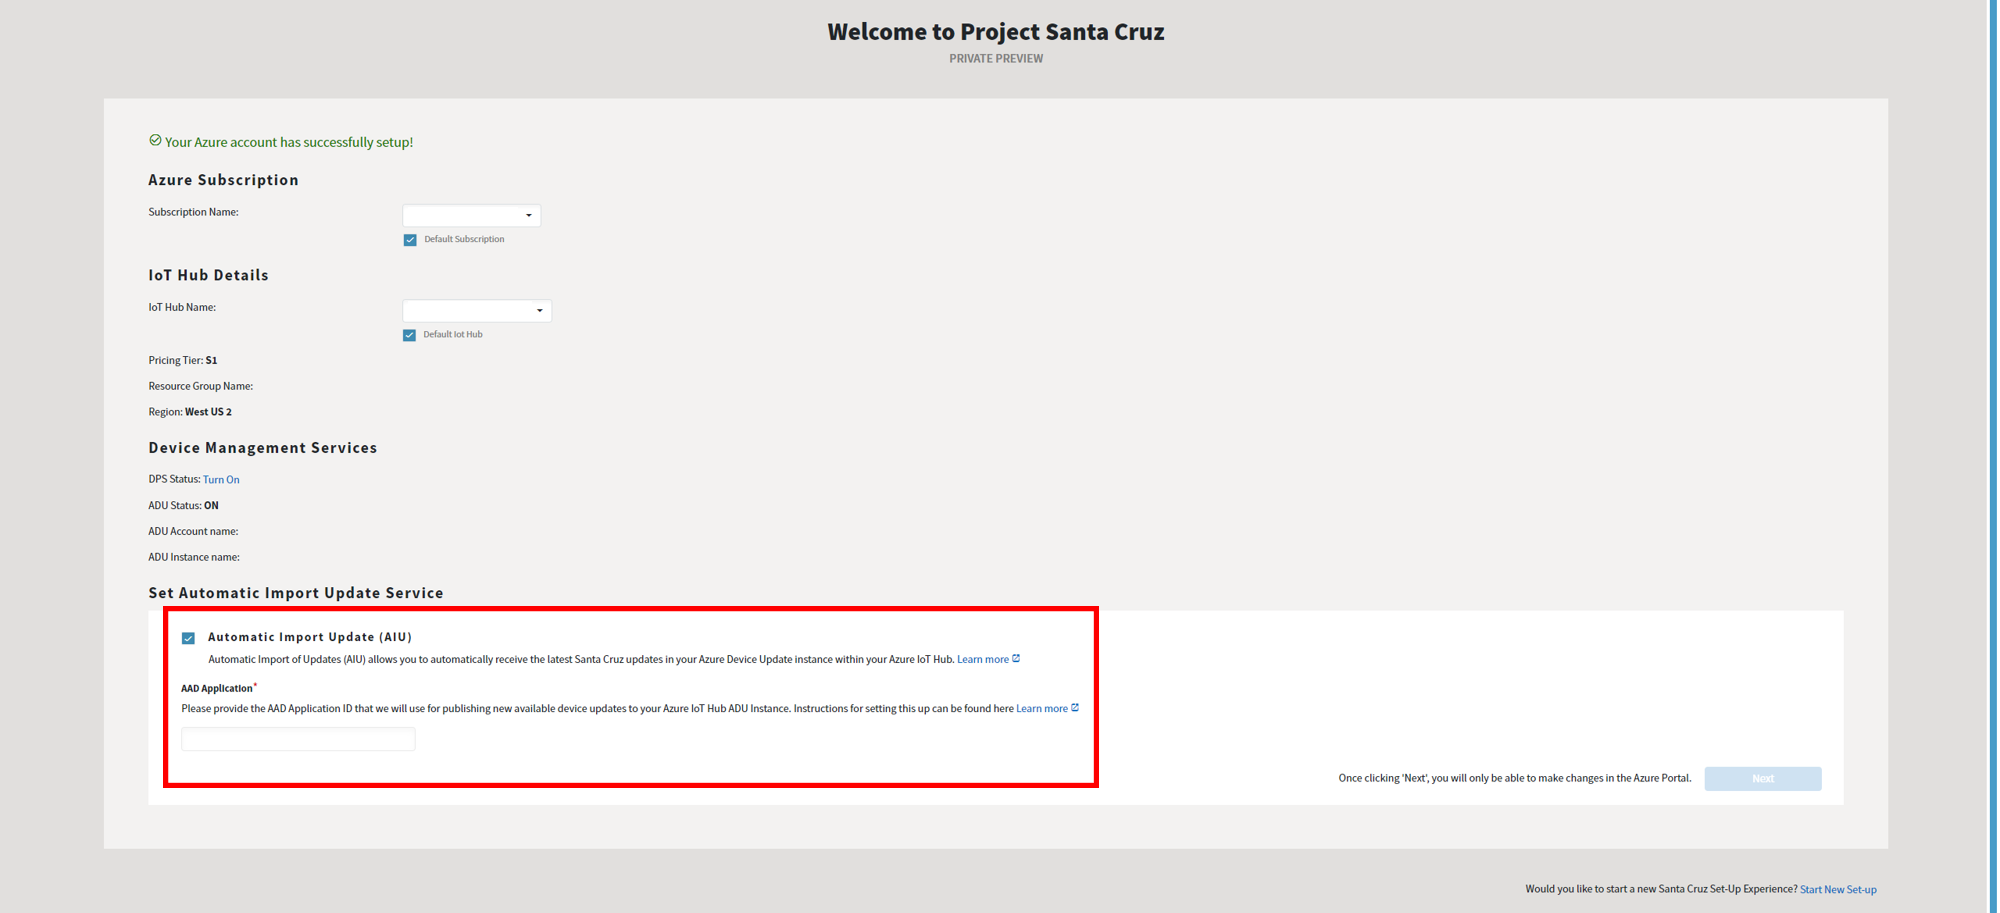
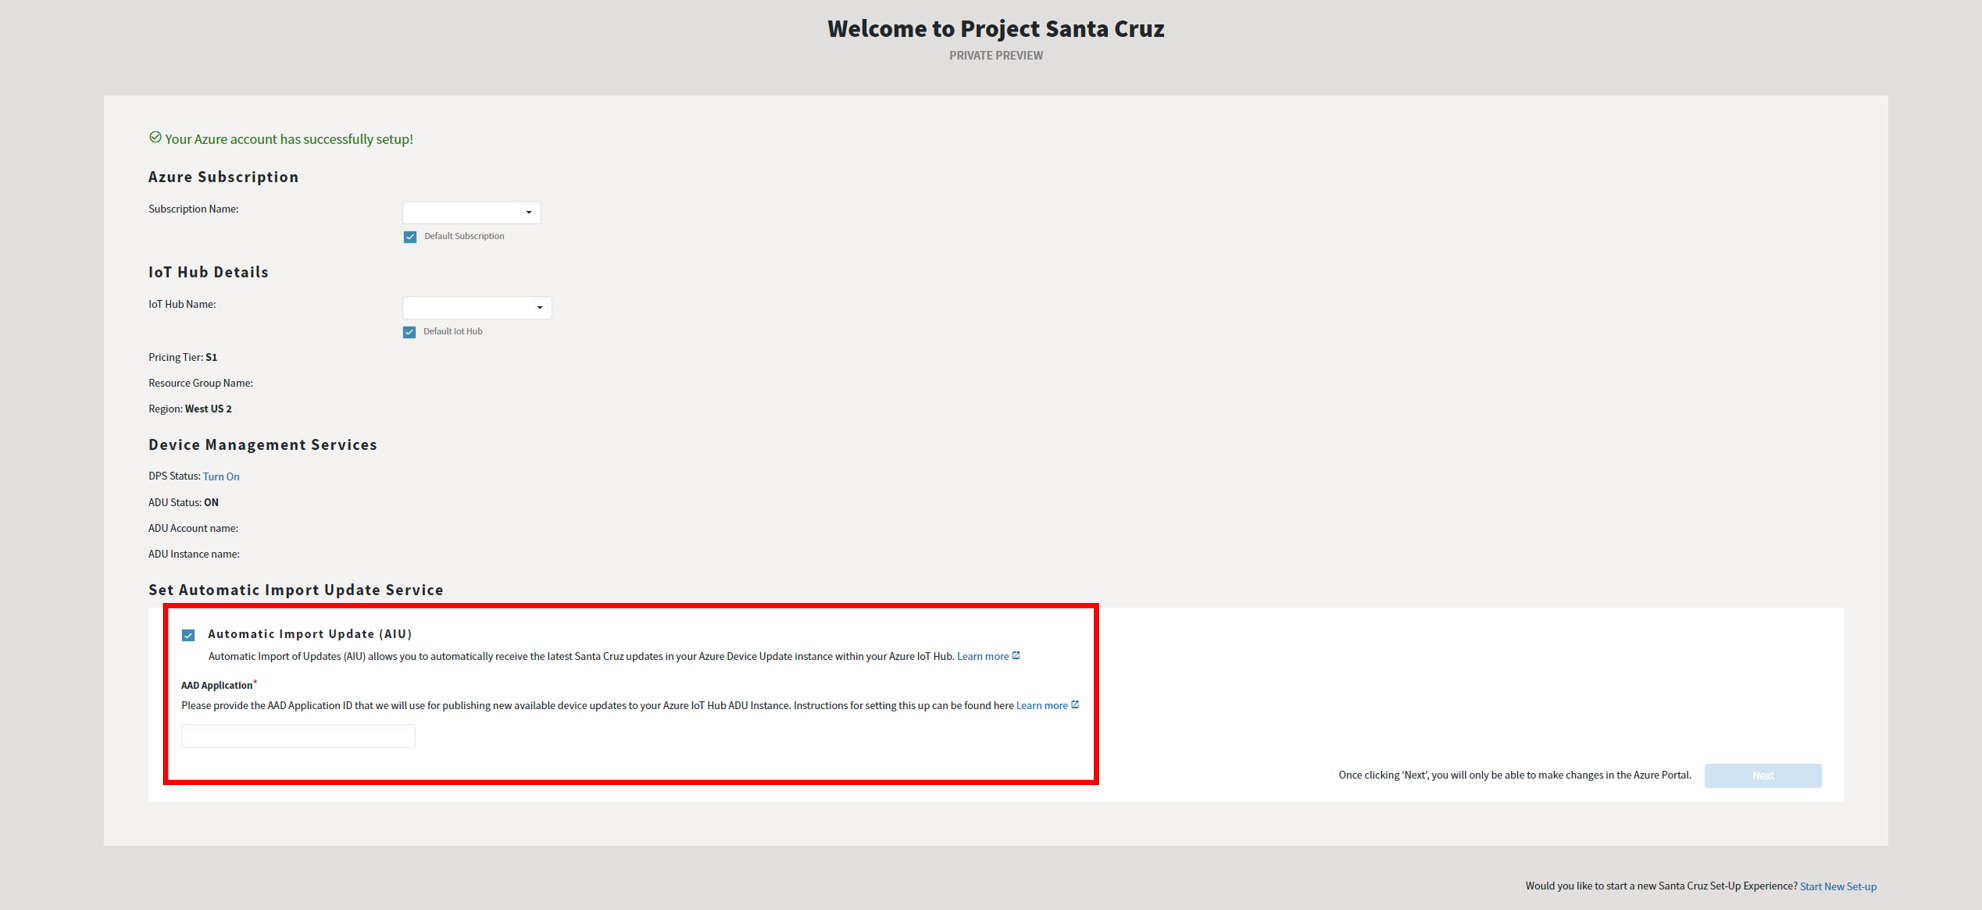
changed title, edited images, added AIU info to TOC and update experience overview article

diff --git a/user-guides/updating/update_experience_overview.md b/user-guides/updating/update_experience_overview.md
@@ -1,6 +1,6 @@
 # Update experience overview
 
-With Project Santa Cruz, you have the option of updating your device OS and firmware over-the-air (OTA) or via USB. To take advantage of OTA updates, Azure Device Update (ADU) must be enabled within your IoT Hub and Azure account associated with Project Santa Cruz. ADU enablement may be done during the [Private Preview onboarding process](https://github.com/microsoft/Project-Santa-Cruz-Private-Preview/blob/main/user-guides/getting_started/azure-subscription-onboarding.md) or at any time within your [Azure account](https://ms.portal.azure.com/?feature.canmodifystamps=true&Microsoft_Azure_Iothub=aduprod#home) after onboarding has been completed. Additionally, your device must be connected to a Wi-Fi network, which can be set up through the [OOBE (out-of-box experience)](https://github.com/microsoft/Project-Santa-Cruz-Private-Preview/blob/main/user-guides/getting_started/oobe.md).
+With Project Santa Cruz, you have the option of updating your device OS and firmware over-the-air (OTA) or via USB. To take advantage of OTA updates, Azure Device Update (ADU) must be enabled within your IoT Hub and Azure account associated with Project Santa Cruz. ADU enablement may be done during the [Private Preview onboarding process](https://github.com/microsoft/Project-Santa-Cruz-Private-Preview/blob/main/user-guides/getting_started/azure-subscription-onboarding.md) or at any time within your [Azure account](https://ms.portal.azure.com/?feature.canmodifystamps=true&Microsoft_Azure_Iothub=aduprod#home) after onboarding has been completed. Additionally, your device must be connected to a Wi-Fi network, which can be set up through the [OOBE (out-of-box experience)](https://github.com/microsoft/Project-Santa-Cruz-Private-Preview/blob/main/user-guides/getting_started/oobe.md). To directly receive the latest updates for your Project Santa Cruz devkits in your Azure Device Update instance, enable [Automatic Import Updates (AIU)](https://github.com/microsoft/Project-Santa-Cruz-Preview/blob/main/user-guides/updating/automatic_import_of_updates.md).
 
 However, if your device is not connected to Wi-Fi and/or you elect not to use ADU, your device may still be updated directly over USB. Update files may be downloaded from https://projectsantacruz.microsoft.com/Download. For more information on how to update your devices, please see the following articles:
 

diff --git a/README.md b/README.md
@@ -45,6 +45,7 @@ After building a speech no-code solution, check out the following resources for 
 ## Keep your devkits up to date
 
 - [Update experience overview](https://github.com/microsoft/Project-Santa-Cruz-Preview/blob/main/user-guides/updating/update_experience_overview.md)
+- [Enable Automatic Import Updates (AIU)](https://github.com/microsoft/Project-Santa-Cruz-Preview/blob/main/user-guides/updating/automatic_import_of_updates.md)
 - [Over-the-air update prerequisites](https://github.com/microsoft/Project-Santa-Cruz-Preview/blob/main/user-guides/updating/ota_os_fw_update_prerequisites.md)
 - [Update your devkit carrier board over-the-air](https://github.com/microsoft/Project-Santa-Cruz-Private-Preview/blob/main/user-guides/updating/ota_update.md)
 - [Update your devkit carrier board via USB](https://github.com/microsoft/Project-Santa-Cruz-Private-Preview/blob/main/user-guides/updating/usb_updating.md)

diff --git a/user-guides/updating/automatic_import_of_updates.md b/user-guides/updating/automatic_import_of_updates.md
@@ -1,4 +1,4 @@
-# Instructions for configuring the AAD Application for Automatic Import Update
+# AAD application configuration for the Automatic Import Update (AIU) service
 
 Automatic Import Update (AIU) functionality enables you to directly receive the latest updates for your Project Santa Cruz devkits in your Azure Device Update instance within your Azure IoT Hub.
 
